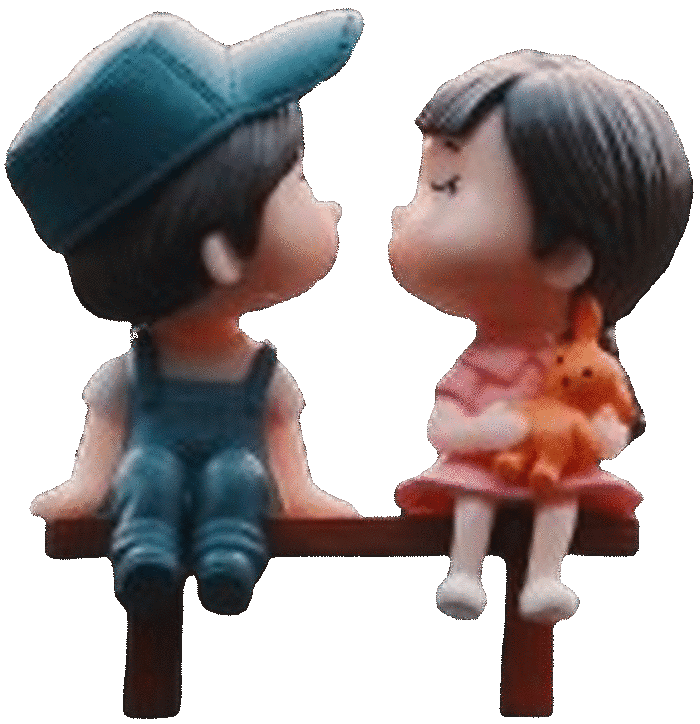
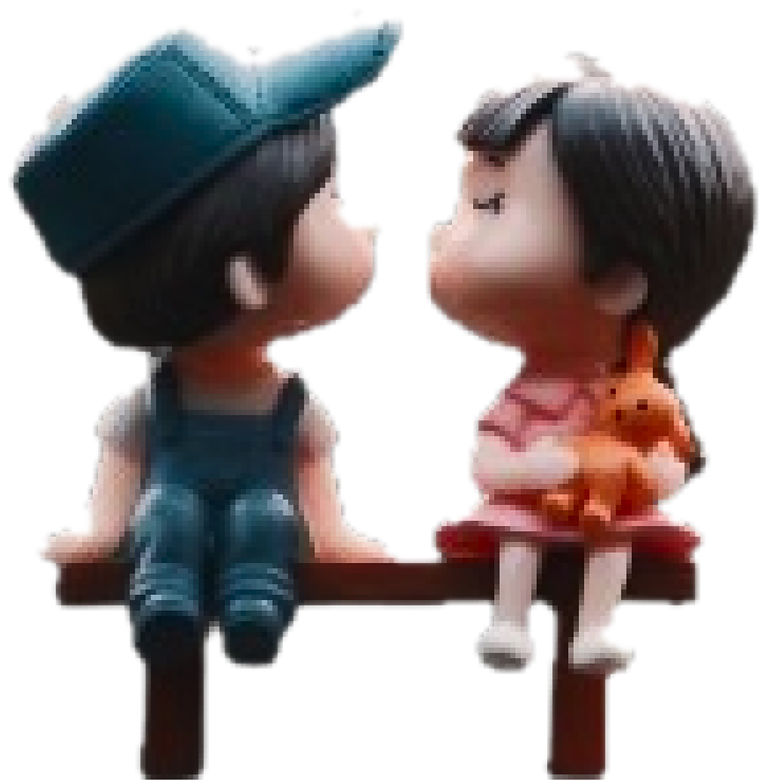
Use Figma's full-resolution export for the figurines
My earlier conclusion was wrong. I had assumed the 612x408 file returned
by download_assets' rawImages was the original, which put the couple at
143x148 and made the softness look unavoidable. It isn't the original —
rawImages serves a downscaled rendition. Figma's own node export at 4x
carries roughly 19x more high-frequency detail (laplacian sigma 0.079 vs
0.0042), which is impossible if it derived from that file.

So the asset now comes from the 4x node export (1349x1331). That export
is flattened onto white, so the background is removed with a bordered
floodfill key, then the alpha is eroded and feathered before downscaling
— a hard binary key was what produced the stair-stepped edges.

Ships as WebP (69K) with a PNG fallback (357K) behind <picture>. The
previous PNG8 palette quantization was crushing the alpha gradations and
contributing to the jagged edges; both formats are now full alpha.

Changed region(s): [[0.0, 0.0, 0.99, 1.0], [0.9, 0.395, 0.93, 0.4254], [0.21, 0.2127, 0.24, 0.2431]]

diff --git a/index.html b/index.html
@@ -183,6 +183,8 @@
     line-height: 0;
   }
 
+  .figures picture { display: block; }
+
   /* contact shadow so the figures sit on the ledge rather than float */
   .figures::after {
     content: "";
@@ -452,7 +454,10 @@
     </h1>
 
     <div class="figures">
-      <img class="couple" src="assets/couple.png" alt="Two figurines sitting together on a bench" width="700" height="724">
+      <picture>
+        <source srcset="assets/couple.webp" type="image/webp">
+        <img class="couple" src="assets/couple.png" alt="Two figurines sitting together on a bench" width="767" height="780">
+      </picture>
     </div>
   </div>
 
